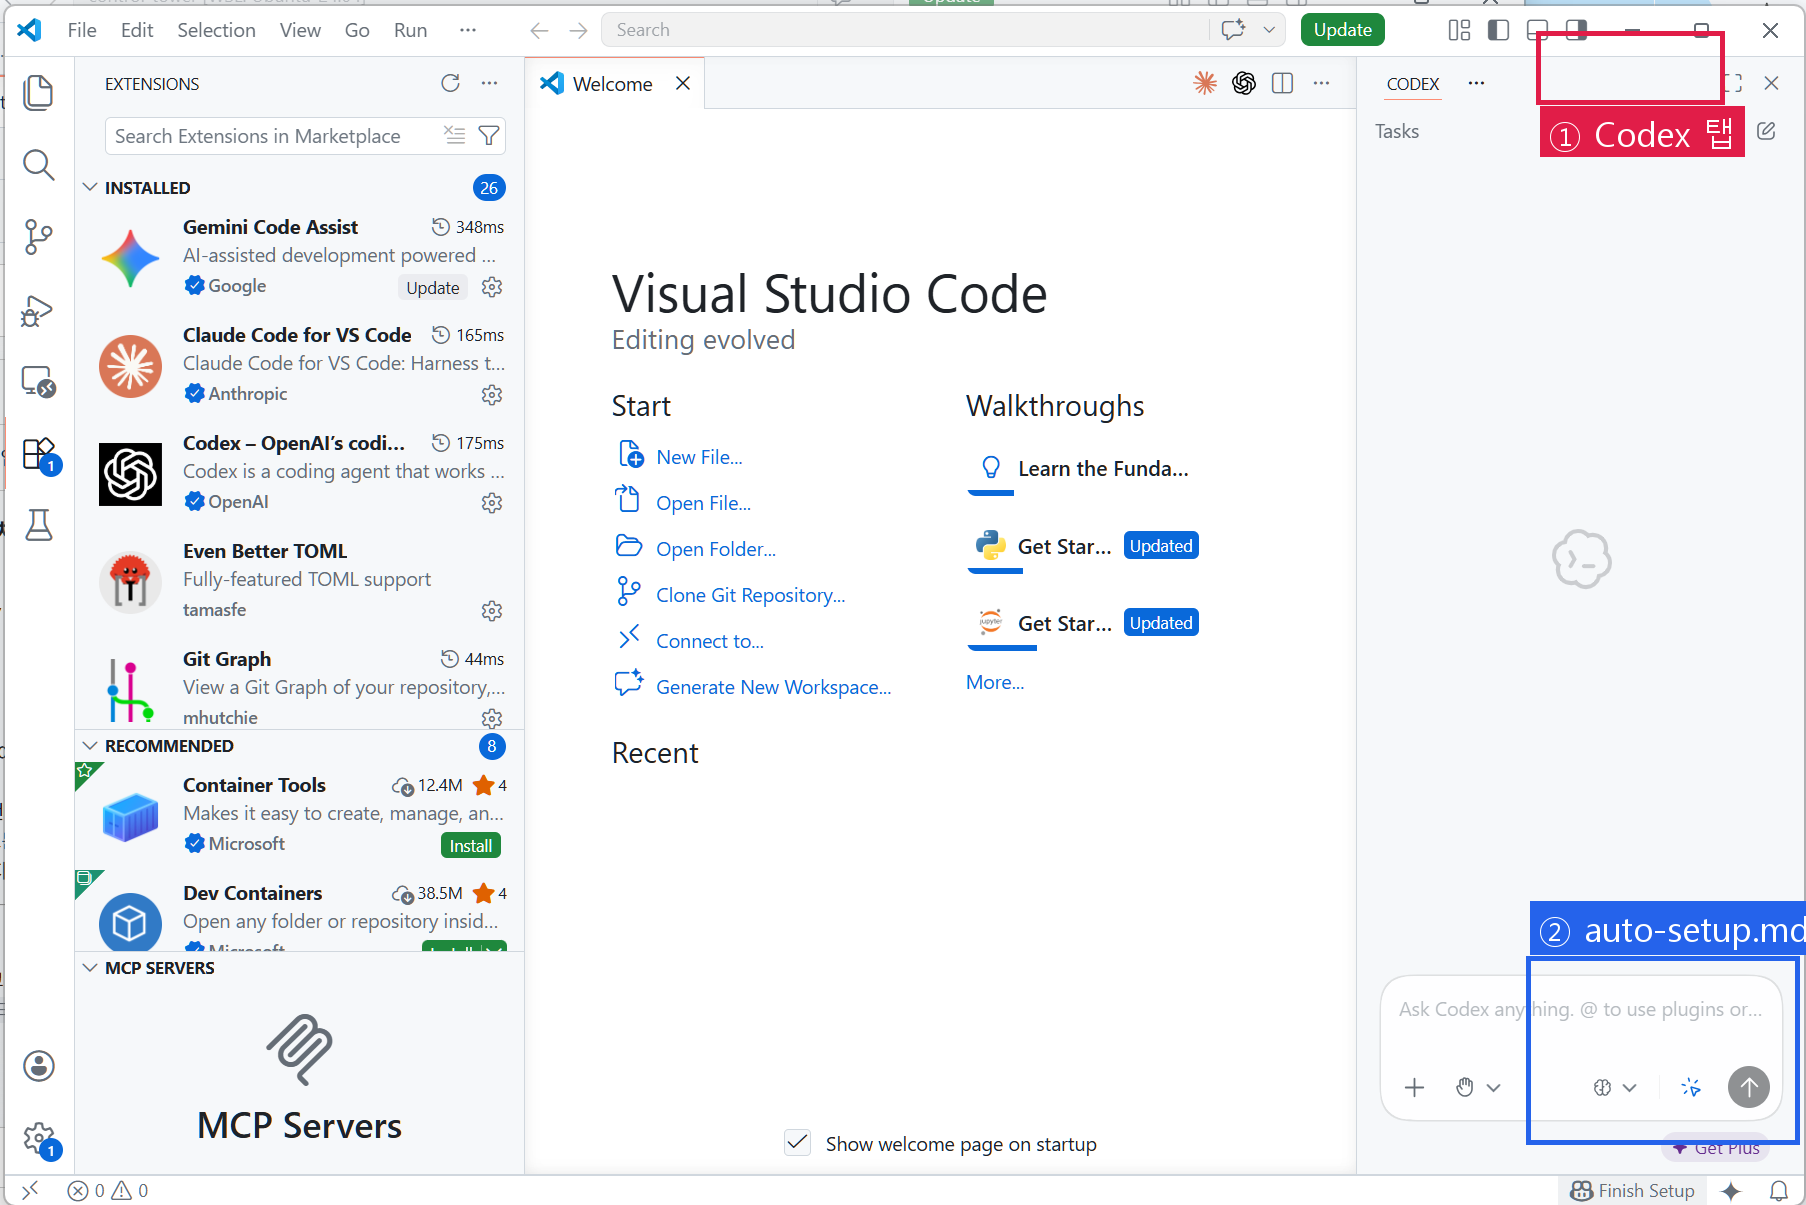
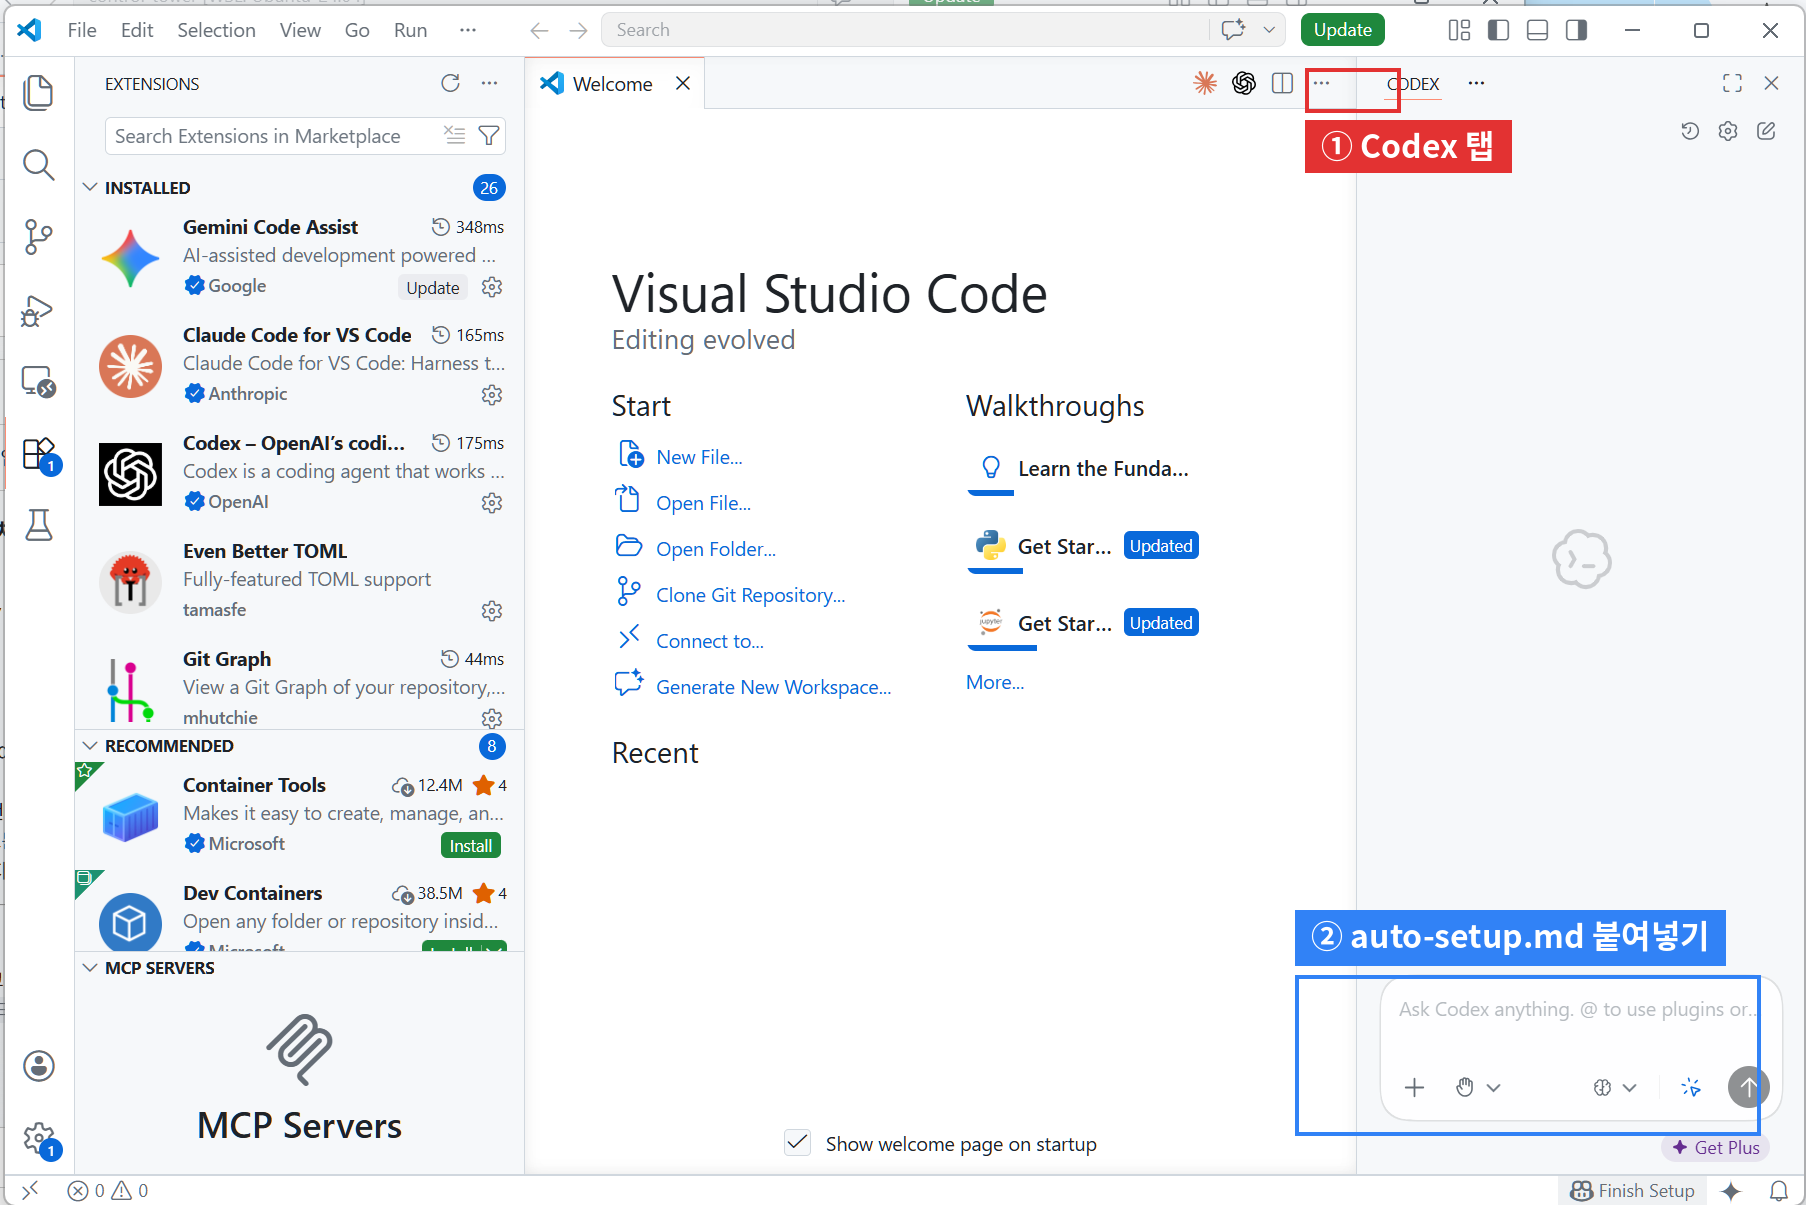
docs: README 맨 위에 사이트 링크 추가 + Codex 스크린샷 annotation 수정
- README.md 최상단에 jun0-ds.github.io/ai-assistant-setup 링크 배치
  (깃허브 방지턱 해소, 비개발자는 사이트로 직행)
- 04-codex-chat.png: ① Codex 탭 박스가 빈 영역에 잘못 그려져 있던 것 수정
  원본 스크린샷(2026-04-24 18:45) 기준으로 재-annotate

sync (LAPTOP-3BO9CJH0 2026-04-24 21:04:27)

Changed region(s): [[0.7132, 0.7369, 1.0, 0.9519], [0.7132, 0.0307, 0.9922, 0.1535], [0.8682, 0.0, 0.9612, 0.0307]]

diff --git a/README.md b/README.md
@@ -1,5 +1,11 @@
 # AI Assistant Setup
 
+### 👉 **[사이트에서 편하게 보기 (jun0-ds.github.io/ai-assistant-setup)](https://jun0-ds.github.io/ai-assistant-setup/)**
+
+> 깃허브 화면이 어렵게 느껴지면 위 링크로 이동하세요. 깔끔한 웹페이지로 같은 내용이 보입니다.
+
+---
+
 > ⚠ 썸네일 보고 놀라지 마세요. 군침이 싹 돕니다.
 
 내 컴퓨터에 AI 어시스턴트 세팅하기.
